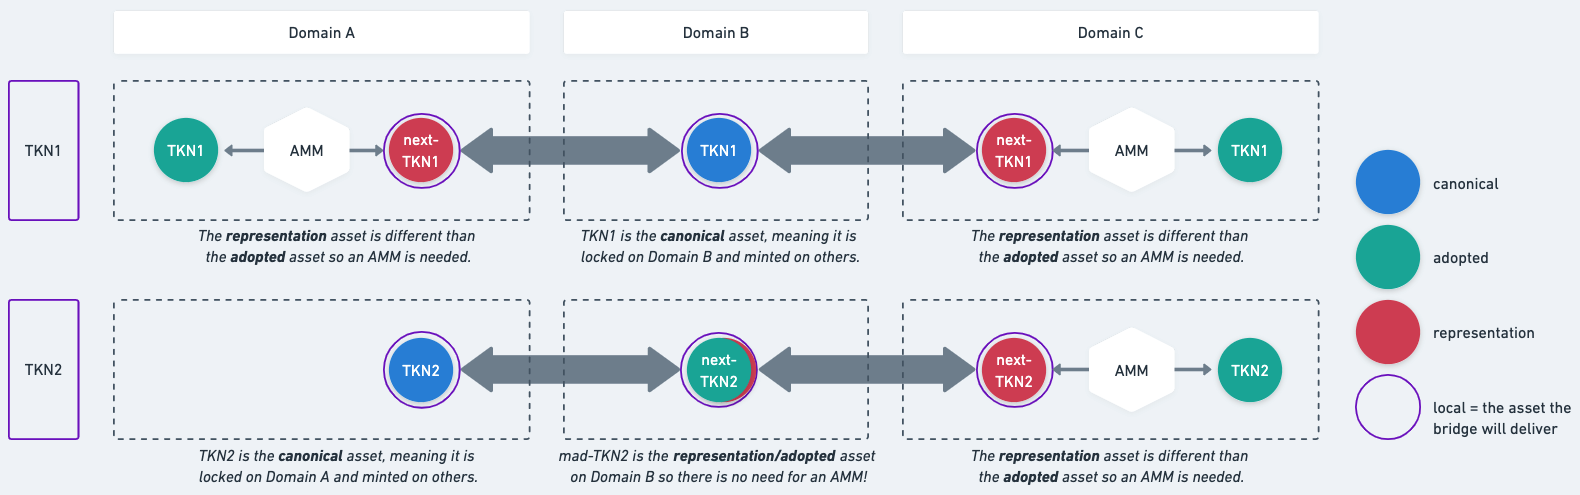
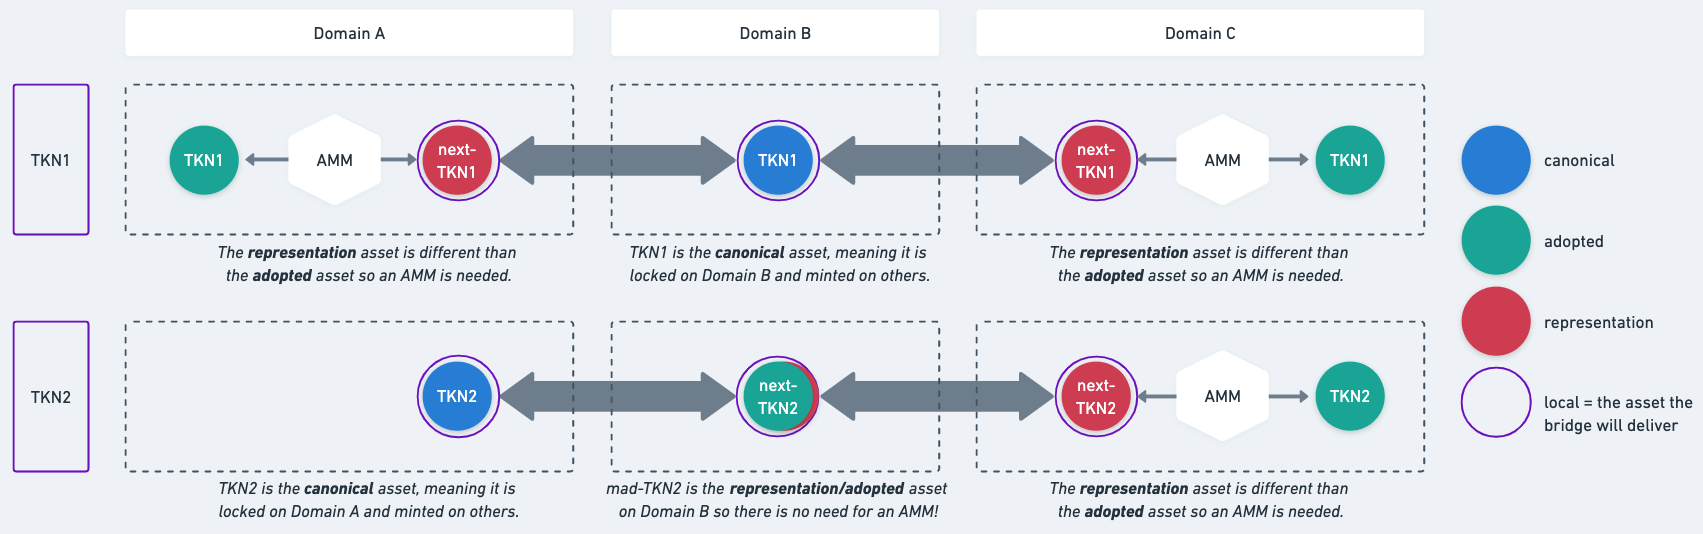
Quick wording change

diff --git a/docs/faq.md b/docs/faq.md
@@ -14,7 +14,7 @@ An updated list can be found at [Supported Chains](./basics/chains#supported-cha
 
 See the deployed addresses for assets at [Deployed Contract Addresses](./developers/testing-against-testnet#deployed-contract-addresses).
 
-## What does it mean when referring to "canonical", "representation", and "adopted" assets?
+## What do "canonical", "representation", "adopted", and "local" assets mean?
 
 <img src="/img/faq/assets.png" alt="drawing" width="1000"/>
 
